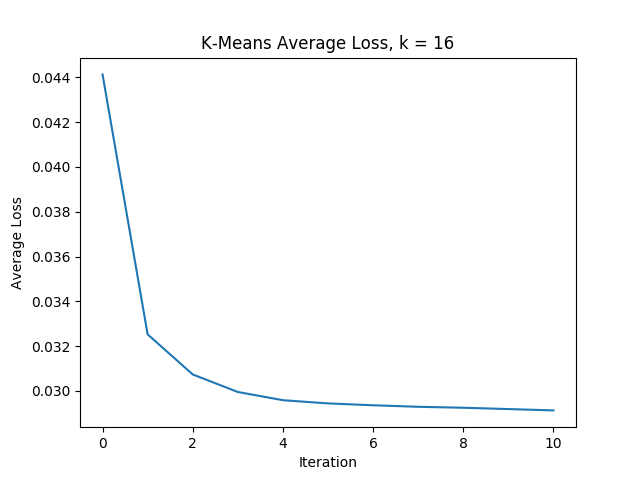
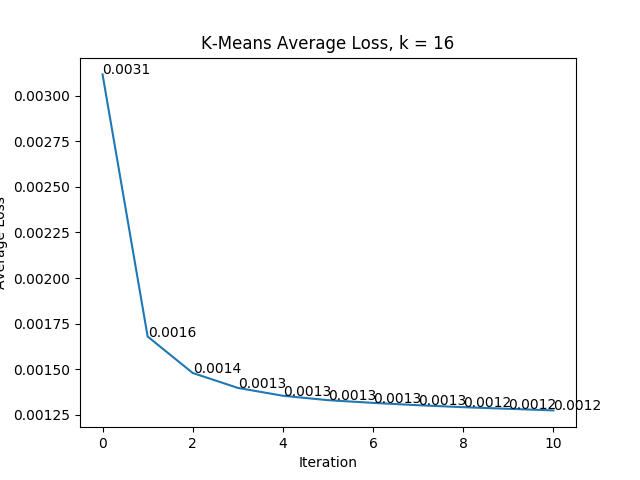
Fix loss graph

diff --git a/k_means.py b/k_means.py
@@ -40,7 +40,7 @@ class KMeans:
                 # assign the pixel to the closest centroid
                 self.centroid_to_pixels[min_centroid_index].append(pixel)
                 self.pixels_to_centroids[tuple(pixel)] = min_centroid_index
-                loss_sum += min_dist
+                loss_sum += min_dist ** 2
 
             # calculate the average loss of the iteration
             self.average_loss.append(loss_sum / self.picture.shape[0])
@@ -61,19 +61,21 @@ class KMeans:
             centroid_index = self.pixels_to_centroids[tuple(pixel)]
             result_vec[index] = self.centroids[centroid_index]
 
-        plt.plot(self.average_loss)
-        plt.title('K-Means Average Loss, k = {}'.format(self.k))
-        plt.ylabel('Average Loss')
-        plt.xlabel('Iteration')
-        plt.show()
+        # plt.plot(self.average_loss)
+        # plt.title('K-Means Average Loss, k = {}'.format(self.k))
+        # plt.ylabel('Average Loss')
+        # plt.xlabel('Iteration')
+        # for i, loss in enumerate(self.average_loss):
+        #     plt.text(i, loss, str(np.floor(10000 * loss) / 10000))
+        # plt.show()
 
         # showing the image
-        picture_len = int(math.sqrt(img_size[0]))
-        picture_after_k_means = result_vec.reshape(picture_len, picture_len, img_size[1])
-        plt.imshow(picture_after_k_means)
-        plt.grid(False)
-        plt.show()
-
+        # picture_len = int(math.sqrt(img_size[0]))
+        # picture_after_k_means = result_vec.reshape(picture_len, picture_len, img_size[1])
+        # plt.imshow(picture_after_k_means)
+        # plt.grid(False)
+        # plt.title('K = {}'.format(self.k))
+        # plt.show()
 
     def print_cent(self):
         """
